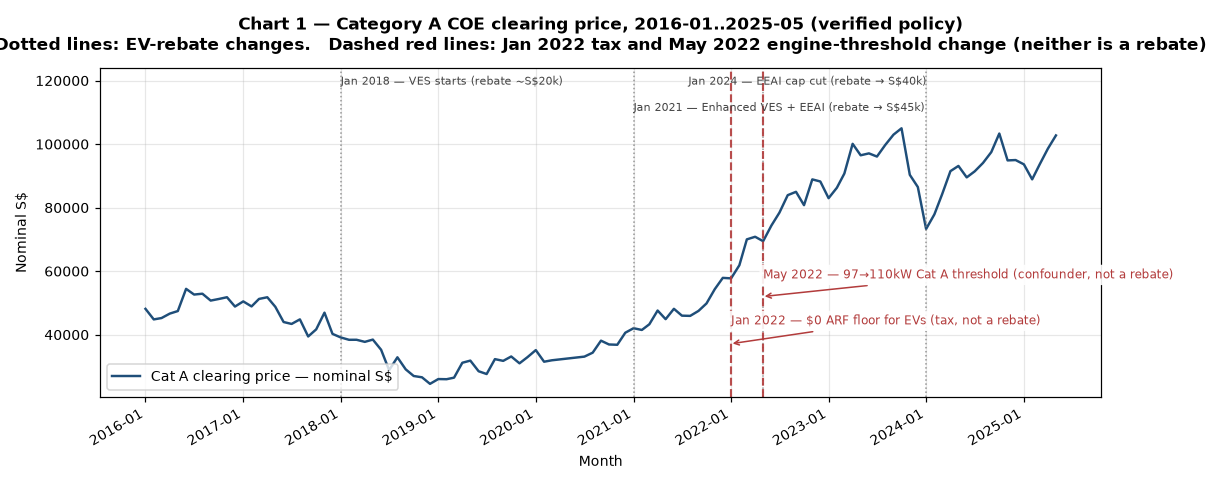
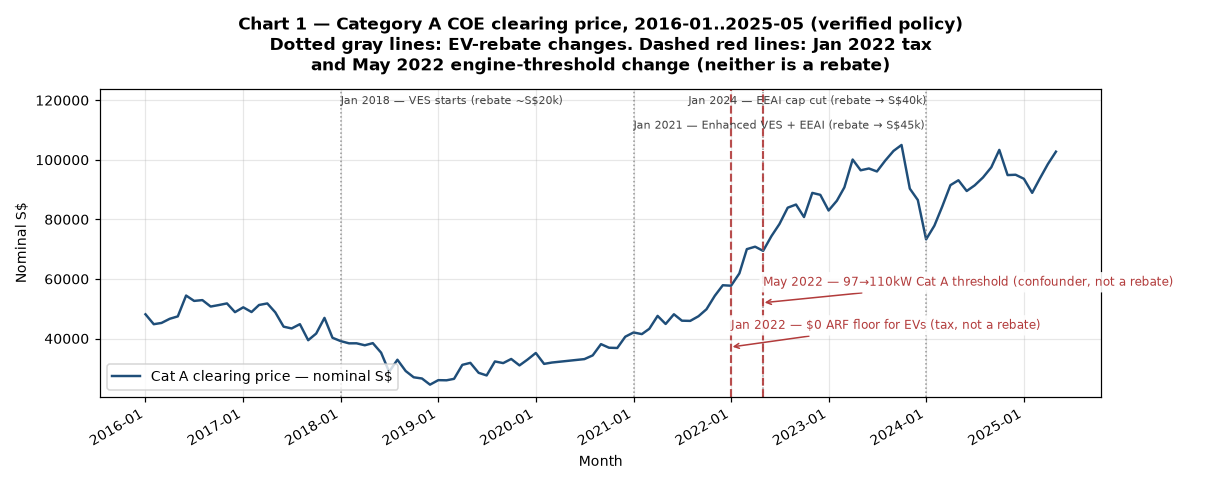
Charts 1-4: re-wrap long title lines that were clipped at the figure edge
Measured rendered width of every title line against the figure width
(1210px at 11in/110dpi):
- Chart 1: 'Dotted lines ... neither is a rebate' (116 chars) split into
  two lines
- Chart 2: parenthetical (148 chars) re-wrapped; MIXED verdict line
  (1302px, -92px overflow) now two lines
- Chart 3: parenthetical re-wrapped; EV-rebate verdict line (1271px,
  -61px overflow) now two lines
- Chart 4: r-value line (155 chars) split across three lines
After the fix, the minimum margin is 472px on every line of charts 1-4
(verified by rendering each figure and measuring per-line text extent).

diff --git a/src/13_charts.py b/src/13_charts.py
@@ -113,8 +113,8 @@ def chart01() -> None:
     ax.set_xlabel("Month")
     ax.set_title(
         "Chart 1 — Category A COE clearing price, 2016-01..2025-05 (verified policy)\n"
-        "Dotted lines: EV-rebate changes.   Dashed red lines: Jan 2022 tax and "
-        "May 2022 engine-threshold change (neither is a rebate)",
+        "Dotted gray lines: EV-rebate changes. Dashed red lines: Jan 2022 tax\n"
+        "and May 2022 engine-threshold change (neither is a rebate)",
         pad=12,
     )
 
@@ -235,14 +235,14 @@ def _nc_verdict(nc: pd.DataFrame, term: str, scope: str) -> str:
     a, c, d = float(g["A"]), float(g["C"]), float(g["D"])
     same = (a > 0 and c > 0 and d > 0) or (a < 0 and c < 0 and d < 0)
     if not same:
-        return ("MIXED: the two clean controls split at this date — "
+        return ("MIXED: the two clean controls split at this date —\n"
                 "neither a clean market-wide signal nor a clean EV-specific "
                 "one (inconclusive)")
     if abs(c) >= 0.5 * abs(a) and abs(d) >= 0.5 * abs(a):
-        return ("market-wide common shock: both clean controls move at least "
+        return ("market-wide common shock: both clean controls move at least\n"
                 "half as much as the EV category (NOT EV-rebate-specific)")
-    return ("the two no-rebate categories move less than half as much as the "
-            "EV-eligible category — the pattern fits an EV-rebate effect")
+    return ("the two no-rebate categories move less than half as much as\n"
+            "the EV-eligible category — the pattern fits an EV-rebate effect")
 
 
 def chart02() -> None:
@@ -257,9 +257,9 @@ def chart02() -> None:
     _nc_panel(ax, nc, "reg_arffloor_zero_202201")
     ax.set_title(
         "Chart 2 — Negative-control check: 2022-01 % price jump by category\n"
-        "(full 2016-01..2025-05 window; each bar = estimated % change in that "
-        "category's average price; the 2022-01 change was a $0 ARF-floor "
-        "TAX, not a rebate)\n"
+        "(full 2016-01..2025-05 window; each bar = estimated % change in that\n"
+        "category's average price; the 2022-01 change was a $0 ARF-floor TAX,\n"
+        "not a rebate)\n"
         f"Verdict: {verdict}",
         pad=12,
     )
@@ -286,7 +286,7 @@ def chart03() -> None:
     _nc_panel(ax, nc, "reg_eeai_cap15k_202401")
     ax.set_title(
         "Chart 3 — Negative-control check: 2024-01 % price jump by category\n"
-        "(2022-01..2025-05 EV-era window; the 2024-01 rebate cut "
+        "(2022-01..2025-05 EV-era window; the 2024-01 rebate cut\n"
         "S$45k → S$40k shows up as a price drop)\n"
         "(each bar = estimated % change in that category's average price, 2022-25)\n"
         f"Verdict: {verdict}",
@@ -329,11 +329,11 @@ def chart04() -> None:
              label="Cat A clearing price (nominal S$, left)")
     ax1.set_ylabel("Cat A clearing price (nominal S$)")
     ax1.set_title(
-        "Chart 4 — Category A COE price vs number of bids received, "
+        "Chart 4 — Category A COE price vs number of bids received,\n"
         "2016-01..2025-05\n"
-        f"level correlation over the decade: r = {r_level:+.2f}; "
-        f"month-to-month changes: r = {r_mom:+.2f} (price vs % change in bids) "
-        f"or r = {r_mom_raw:+.2f} (both in raw levels) — near zero either way",
+        f"level correlation over the decade: r = {r_level:+.2f}\n"
+        f"month-to-month changes: r = {r_mom:+.2f} (price vs % change in bids) or\n"
+        f"r = {r_mom_raw:+.2f} (both in raw levels) — near zero either way",
     )
     ax2 = ax1.twinx()
     ax2.plot(df["ts"], df["catA_bids_received_clean"], color="#b23b3b", lw=1.4,
